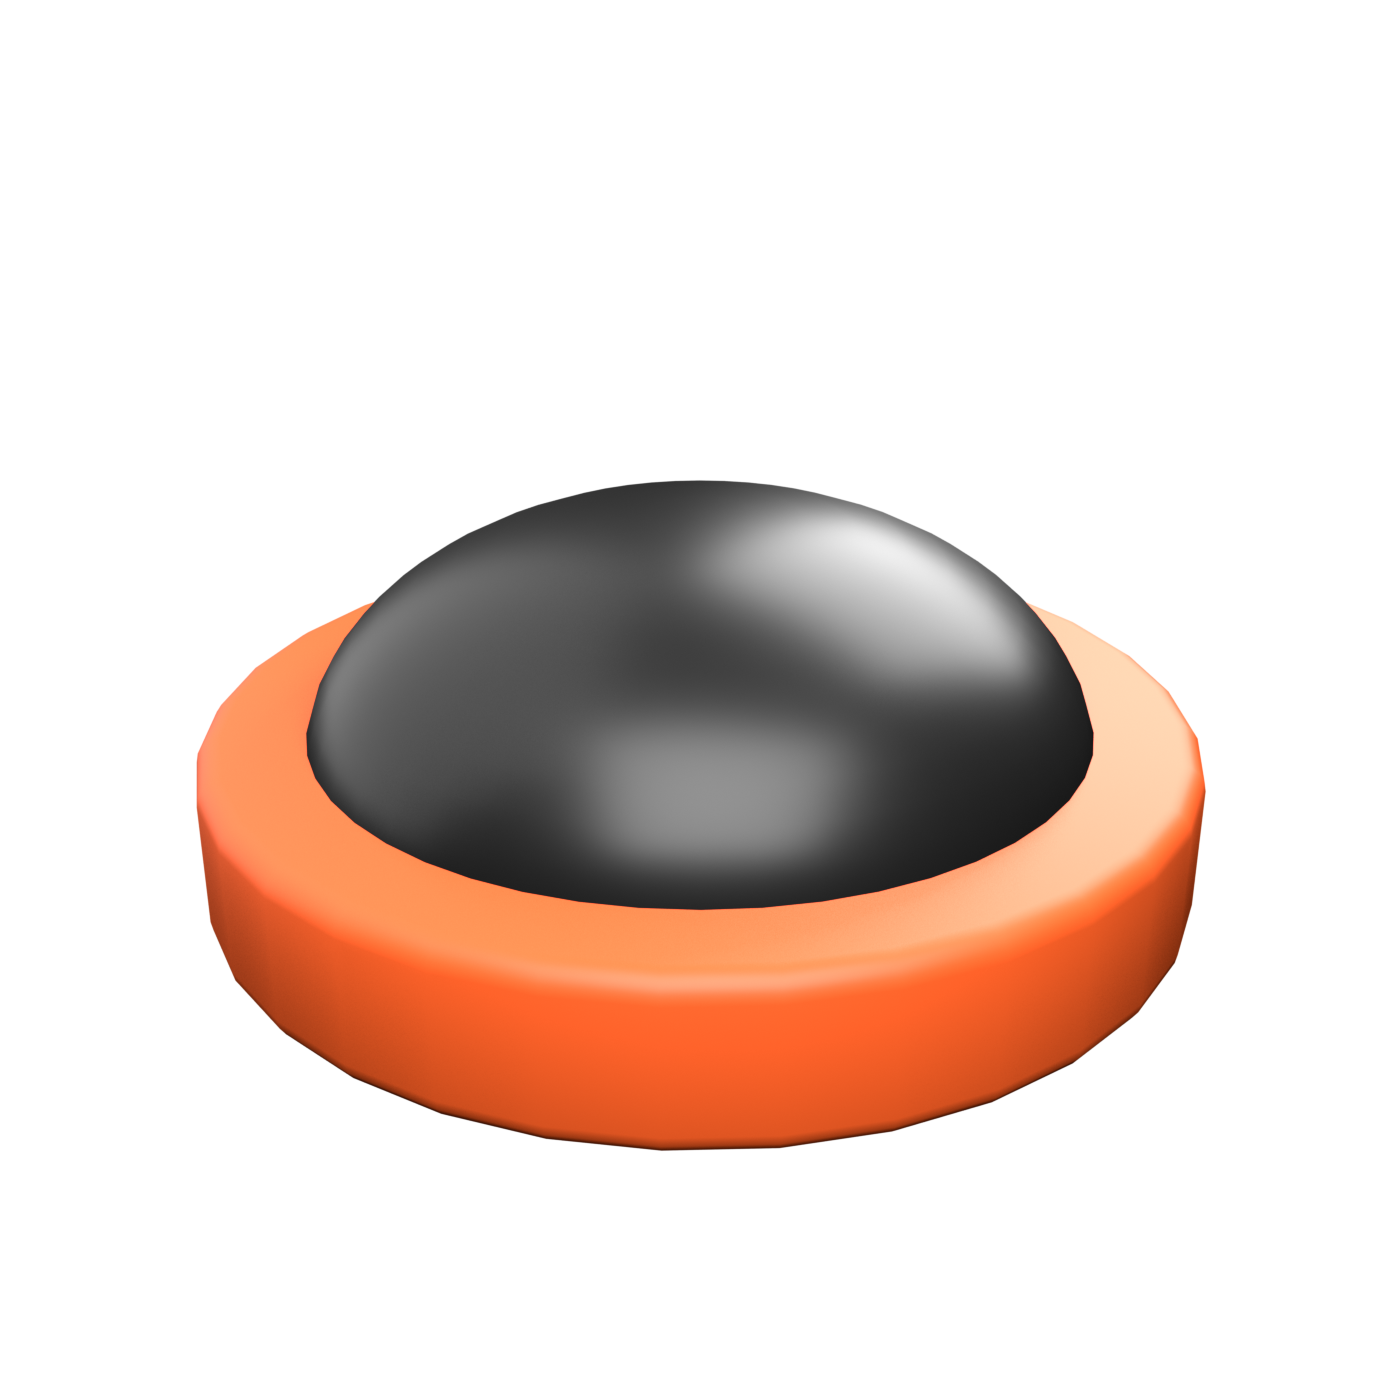
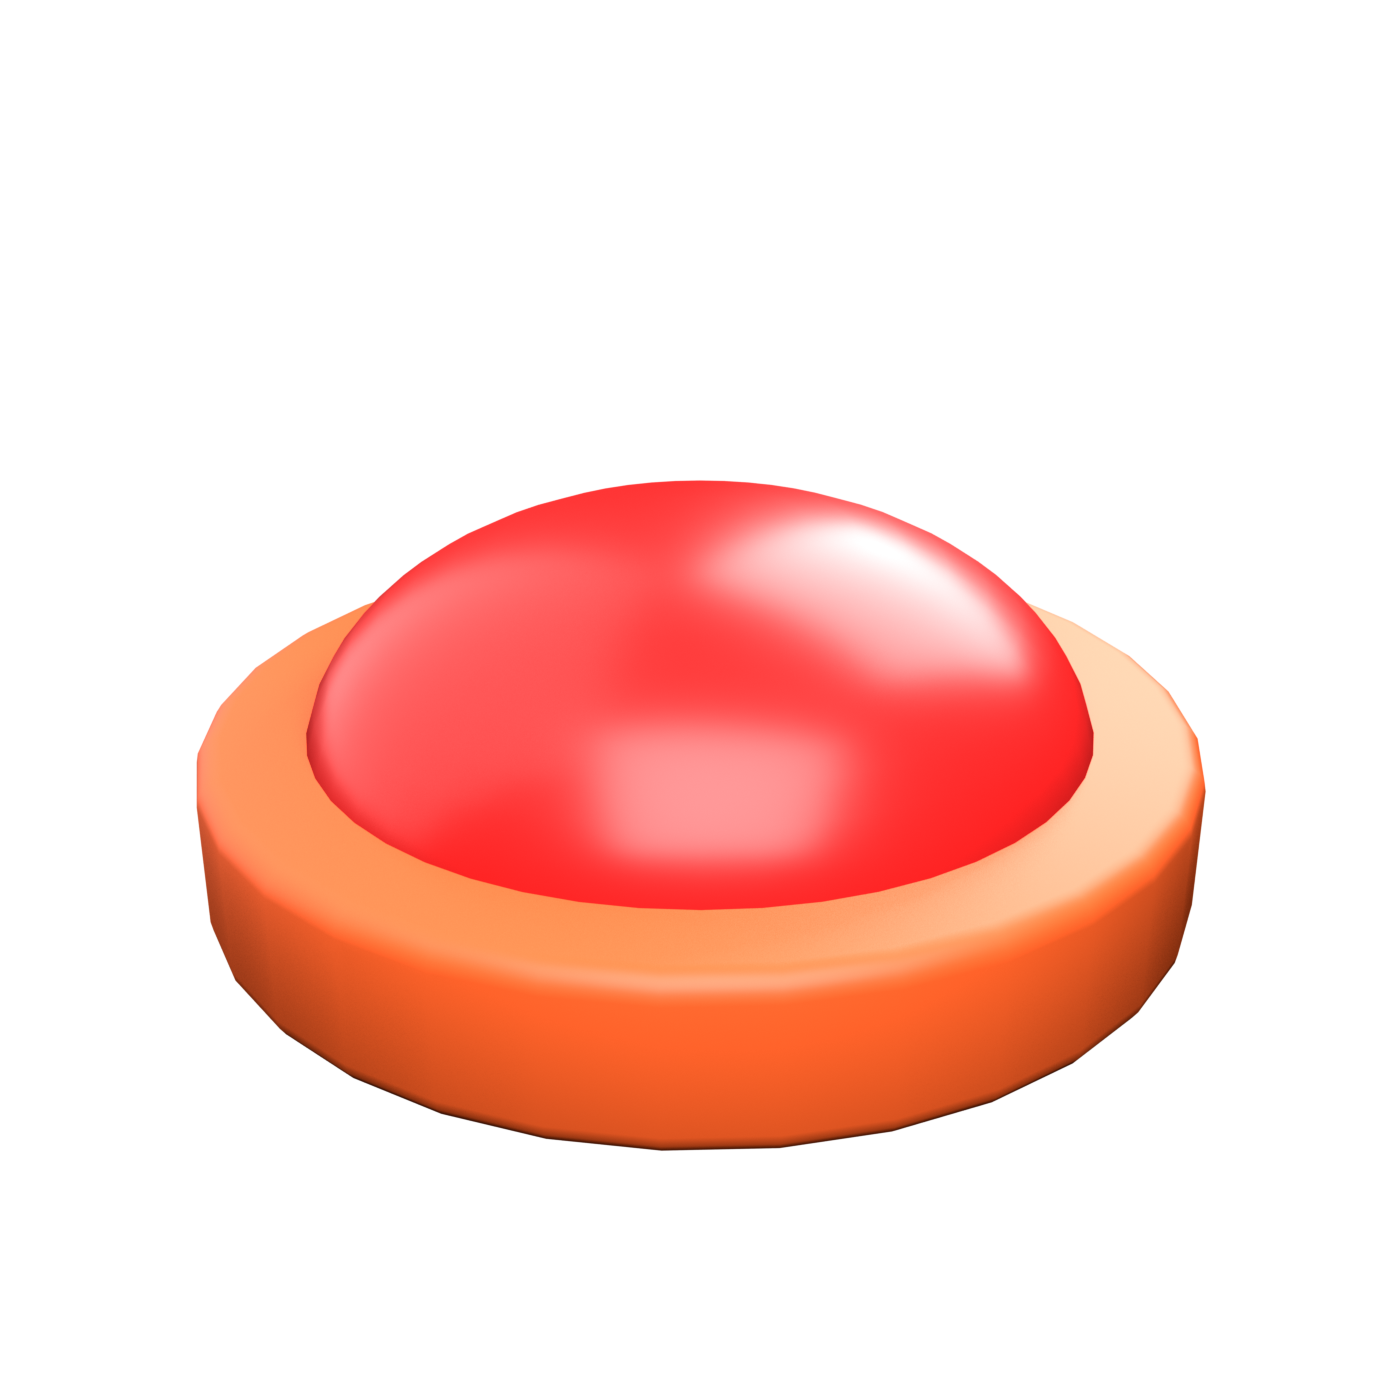
tweak(table-derby): red text-free buzzer; drop trophy + card-stack renders
Re-rendered the buzzer with a red dome (owner request), removed the
label overlay — the button is just the 3D buzzer now. Trophy and card
stack unwired and deleted.

Changed region(s): [[0.215, 0.3379, 0.7986, 0.6757]]

diff --git a/src/features/table-derby/TableDerbyApp.tsx b/src/features/table-derby/TableDerbyApp.tsx
@@ -1083,13 +1083,7 @@ export function TableDerbyApp() {
               className="w-full max-w-2xl"
             >
               {currentRound === 1 && category && <CategoryBand prompt={category.prompt} />}
-              {currentRound === 2 && cardCategory && (
-                <div className="flex flex-col items-center gap-4">
-                  {/* eslint-disable-next-line @next/next/no-img-element -- local 3D render */}
-                  <img src="/assets/table-derby/3d/cards.png" alt="" className="h-28 w-auto md:h-36" />
-                  <CategoryBand prompt={cardCategory.prompt} />
-                </div>
-              )}
+              {currentRound === 2 && cardCategory && <CategoryBand prompt={cardCategory.prompt} />}
               {currentRound === 3 && <CategoryBand prompt={TD.rollBox} />}
               {currentRound === 4 && <CategoryBand prompt={`${TD.buzzRules} · +10 / −10`} />}
               {currentRound === 5 && <CategoryBand prompt={TD.penaltiesIntro} />}
@@ -1325,10 +1319,6 @@ export function TableDerbyApp() {
             <span className="text-[11px] text-white/55" style={TD_DISPLAY}>
               {TD.resultsTitle}
             </span>
-            {matchWinner === 'me' && (
-              /* eslint-disable-next-line @next/next/no-img-element -- local 3D render */
-              <img src="/assets/table-derby/3d/trophy.png" alt="" className="-my-2 h-32 w-auto md:h-40" />
-            )}
             <motion.div
               initial={{ scale: 0.7, rotate: -6, opacity: 0 }}
               animate={{ scale: 1, rotate: -3, opacity: 1 }}

diff --git a/src/features/table-derby/components/BuzzerRound.tsx b/src/features/table-derby/components/BuzzerRound.tsx
@@ -275,15 +275,9 @@ export function BuzzerRound({
             {/* eslint-disable-next-line @next/next/no-img-element -- local 3D render */}
             <img
               src="/assets/table-derby/3d/buzzer.png"
-              alt=""
+              alt={TD.buzz}
               className="pointer-events-none h-full w-full object-contain"
             />
-            <span
-              className="absolute inset-x-0 top-[40%] text-center text-xl md:text-2xl"
-              style={{ ...TD_DISPLAY, color: 'var(--td-white)' }}
-            >
-              {TD.buzz}
-            </span>
           </motion.button>
           <span className="text-[12px] text-white/50" style={TD_DISPLAY}>
             {locked.me ? TD.lockedOut : zphase === 'answerOp' ? `${opponentName} · ${TD.opponentBuzzed}` : TD.buzzRules}
